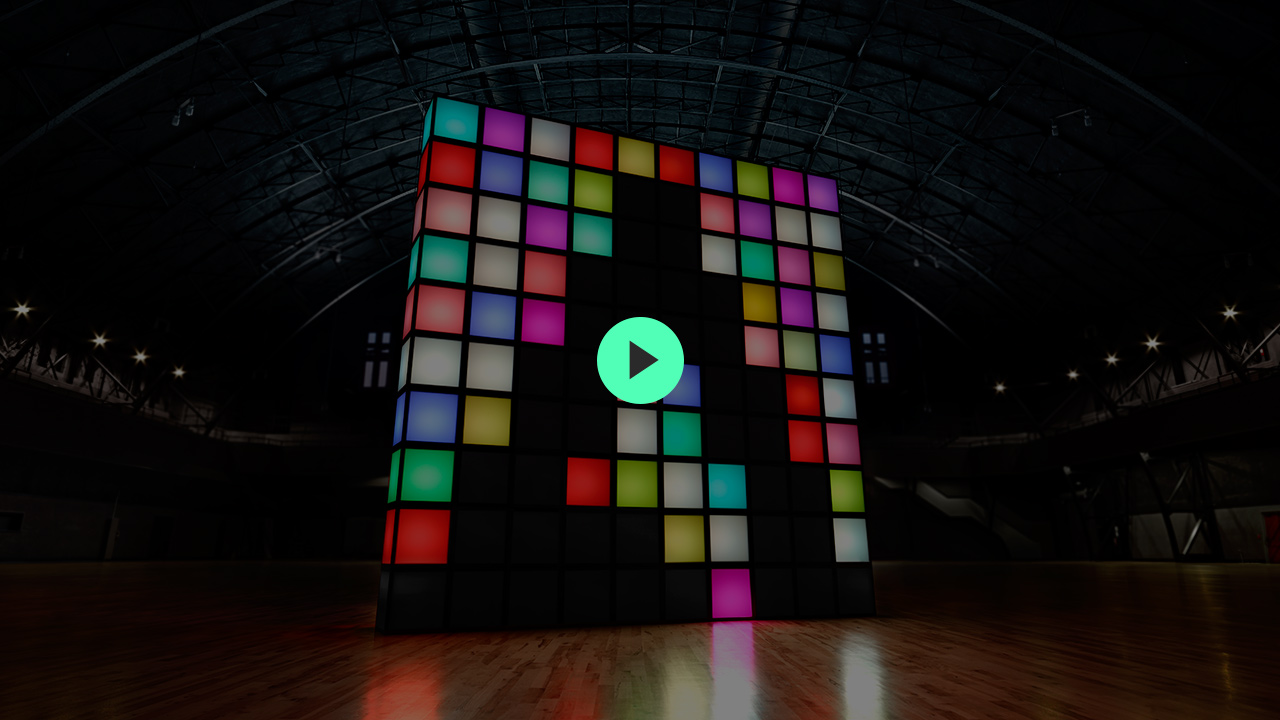
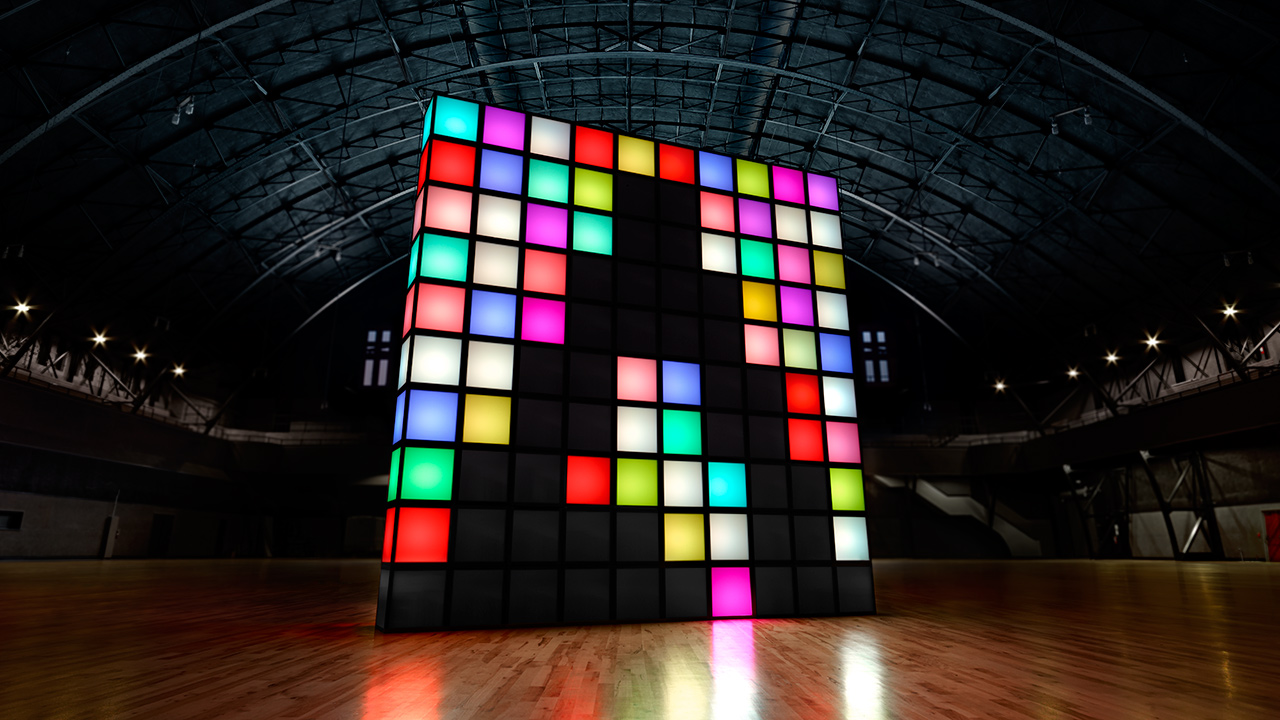
stuff

diff --git a/index.html b/index.html
@@ -30,34 +30,10 @@
 	<script type="text/javascript">
 		$(document).ready(function() {
 			var pepe = $.fn.fullpage({
-				slidesColor: ['#141414', '#51ffb7', '#666666', '#141414', '#141414'],
+				slidesColor: ['#141414', '#51ffb7', '#141414', '#141414', '#141414'],
 				anchors: ['firstPage', 'secondPage', '3rdPage', '4thpage', 'lastPage'],
 				menu: '#menu'
 			});
-			
-			console.log('init me');
-			// var iframe = document.getElementById('video');
-			var iframe = $('#video');
-			// $f == Froogaloop
-			var player = $f(iframe);
-
-			// bind events
-			console.log('hi vid.js here');
-			$("#play-button").on('click', function() {
-				console.log('clicked me play');
-			});
-
-			var playButton = document.getElementById("play-button");
-			playButton.addEventListener("click", function() {
-			  console.log('play clicked');
-			  player.api("play");
-			});
-
-			var pauseButton = document.getElementById("pause-button");
-			pauseButton.addEventListener("click", function() {
-			  player.api("pause");
-			});
-
 		});
 	</script>
 
@@ -65,12 +41,6 @@
     <script type="text/javascript">try{Typekit.load();}catch(e){}</script>
 </head>
 <body>
-<!-- Section for social media -->
-<!--<a href="https://github.com/alvarotrigo/fullPage.js"><img style="position: fixed;z-index:99; top: 0; right: 0; border: 0;" src="https://s3.amazonaws.com/github/ribbons/forkme_right_orange_ff7600.png" alt="Fork me on GitHub"></a>
-
-<a href="https://twitter.com/share" class="twitter-share-button" data-url="http://http://alvarotrigo.com/fullPage/" data-text="Great plugin to create fullscreen scrolling websites: http://alvarotrigo.com/fullPage/">Tweet</a>
-<script>!function(d,s,id){var js,fjs=d.getElementsByTagName(s)[0],p=/^http:/.test(d.location)?'http':'https';if(!d.getElementById(id)){js=d.createElement(s);js.id=id;js.src=p+'://platform.twitter.com/widgets.js';fjs.parentNode.insertBefore(js,fjs);}}(document, 'script', 'twitter-wjs');</script>
--->
 <ul id="menu" style="display:none;">
 	<li data-menuanchor="firstPage"><a href="#firstPage">First slide</a></li>
 	<li data-menuanchor="secondPage"><a href="#secondPage">Second slide</a></li>
@@ -80,70 +50,24 @@
 
 <div class="section " id="section0">
 	<div class="intro">
-	<!-- <h1>fullPage.js</h1> -->
-	<!-- <p>Create Beautiful Fullscreen Scrolling Websites</p> -->
-	<!-- <img src="imgs/fullPage.png" alt="fullPage" /> -->
-	<div id="logo">       
-        <img src="img/logo.png">
-    </div>
-    <p id="header">100 Artists At Work</p>
-    
-    <img class="arrow" src="img/arrowsm.png">
-            <!-- <span class="arrow"></span> -->
+		<div id="logo">       
+	        <img src="img/logo.png">
+	    </div>
+	    <p id="header">100 Artists At Work</p>
+	    
+	    <img class="arrow" src="img/arrowsm.png">
     </div>      
 </div>
 <div class="section" id="section1">
-    <!-- <div class="slide"> -->
-		<!-- <div class="intro"> -->
-			<!-- <h1>Create Sliders</h1> -->
-			<p id="description">Re-imagining Adobe’s logo with 100 cubes of light, each one reflecting the work of one artist in real time. A representation of the global community of  artists and designers who create amazing work everyday.</p>
-			<img class="arrow" src="img/arrowblk.png">
-
-			<!-- <p>Not only vertical scrolling but also horizontal scrolling. With fullPage.js you will be able to add horizontal sliders in the most simple way ever.</p> -->
-			<!-- <img src="imgs/slider.png" alt="slider" /> -->
-		<!-- </div> -->
-		
-	<!-- </div> -->
-    <!-- <div class="slide">
-		<div class="intro">
-			<img src="imgs/1.png" alt="simple" />
-			<h1>Simple</h1>
-			<p>Easy to use. Configurable and customizable.</p>
-		</div>
-	</div>
-    <div class="slide">
-		<div class="intro">
-			<img src="imgs/2.png" alt="Cool" />
-			<h1>Cool</h1>
-			<p>It just looks cool. Impress everybody with a simple and modern web design!</p>
-		</div>
-	</div>
-    <div class="slide">
-		<div class="intro">
-			<img src="imgs/3.png" alt="Compatible" />
-			<h1>Compatible</h1>
-			<p>Working in modern and old browsers too! IE 8 users don't have the fault of using that horrible browser! Lets give them a chance to see your site in a proper way!</p>
-		</div>
-	</div> -->
+	<p id="description">Re-imagining Adobe’s logo with 100 cubes of light, each one reflecting the work of one artist in real time. A representation of the global community of  artists and designers who create amazing work everyday.</p>
+	<img class="arrow" src="img/arrowblk.png">
 </div>
 <div class="section" id="section2">
 	<div class="intro">
         <div class="videoWrapper">
         	<iframe id="player1" style="display:none;" src="//player.vimeo.com/video/89451435?title=0&amp;byline=0&amp;portrait=0?api=1&player_id=player1" width="1920" height="1080" frameborder="0" webkitallowfullscreen mozallowfullscreen allowfullscreen></iframe>
         </div>
-        <!-- <div class="buttons">
-        	<div id="play-button"></div>
-        	<div id="puase-button"></div>
-        </div> -->
-        <!-- <p>Video status: <span class="status">...</span></p> -->
-		
-		<!-- <svg xmlns="http://www.w3.org/2000/svg" width="50" height="50" viewBox="0 0 210 210" class="play_icon"> -->
-    <!-- <g transform="translate(-296 -123) translate(301 128)" stroke="rgba(81,255,183,.7)" stroke-width="9" fill="none"> -->
-        <!-- <circle cx="100" cy="100" r="100"></circle> -->
-        <!-- <polygon stroke-linecap="round" stroke-linejoin="round" transform="rotate(-150 100 100)" points="100 56.5 137.672105 121.75 62.3278949 121.75"></polygon> -->
-    <!-- </g> -->
-<!-- </svg> -->
-<button class="play"></button>
+		<button class="play"></button>
         <script type="text/javascript">
         	var iframe = $('#player1')[0],
 			    player = $f(iframe),
@@ -163,35 +87,34 @@
 			//     player.api($(this).text().toLowerCase());
 			// });
 			$('.play').bind('click', function() {
+				$('#section2').css({'background':'none', 'background-color':'#141414'});
 				$('#player1').css('display', 'block');
 				player.api('play');
 				$('.play').fadeOut('slow');
 			});
-			function onPause(id) {
-			    status.text('paused');
-			}
+			// function onPause(id) {
+			//     status.text('paused');
+			// }
 
-			function onFinish(id) {
-			    status.text('finished');
-			}
+			// function onFinish(id) {
+			//     status.text('finished');
+			// }
 
-			function onPlayProgress(data, id) {
-			    status.text(data.seconds + 's played');
-			}
+			// function onPlayProgress(data, id) {
+			//     status.text(data.seconds + 's played');
+			// }
         </script>
 
-</div>
+	</div>
 </div>
 <div class="section" id="section3">
 	<div class="intro">
-		<!-- <h1>Working On Tablets</h1> -->
-		
-		<!--iframe
+		<iframe
             src="webgl/"                    
             Frameborder=0
             height="800"
             width="1400">
-        </iframe-->
+        </iframe>
         <div id="test" class="popup">
         <div class="triangle-with-shadow"></div>
         <div class="cancel" onclick="closePopup();">x</div>

diff --git a/main.css b/main.css
@@ -156,7 +156,7 @@ p{
 .videoWrapper {
 	position: relative;
 	/*padding-bottom: 56.25%; /* 16:9 */
-	padding-bottom: 47.25%;
+	padding-bottom: 52.25%;
 	padding-top: 25px;
 	height: 0;
 }
@@ -182,6 +182,7 @@ button.play {
 	border: none;
 	position: absolute;
 	top: 50%;
+	left: 50%;
 }
 
 button.play:hover {
@@ -278,8 +279,9 @@ button:focus {
 }
 .cubes {
 	font-style: italic;
-	position: relative;
-	bottom: 50px
+	position: absolute;
+	bottom: 50px;
+	left: 25%;
 }
 .popup {
     position: relative;
